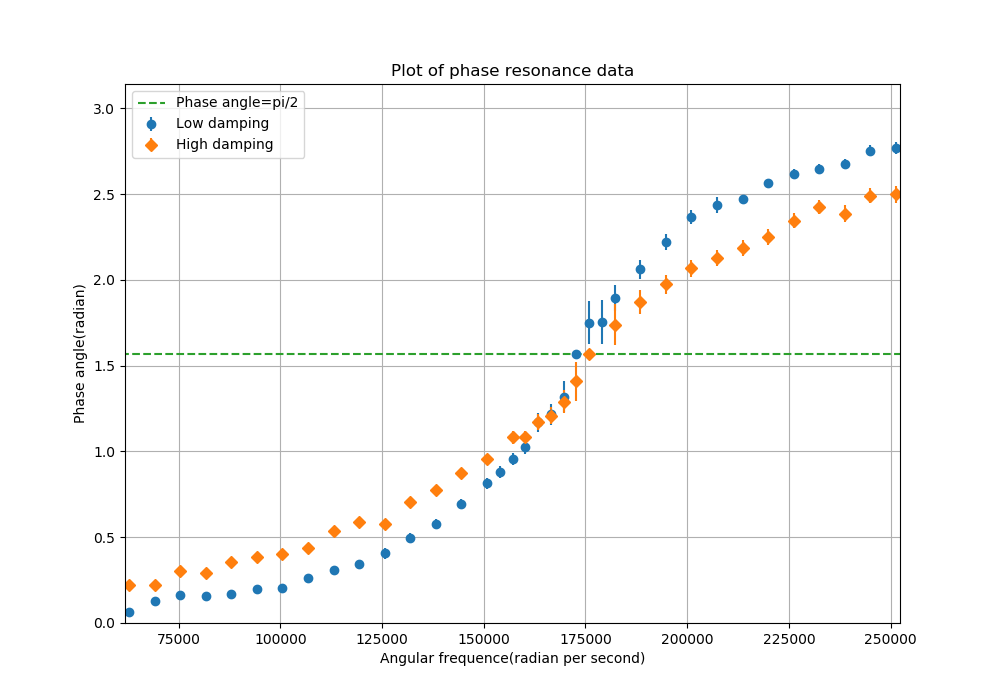
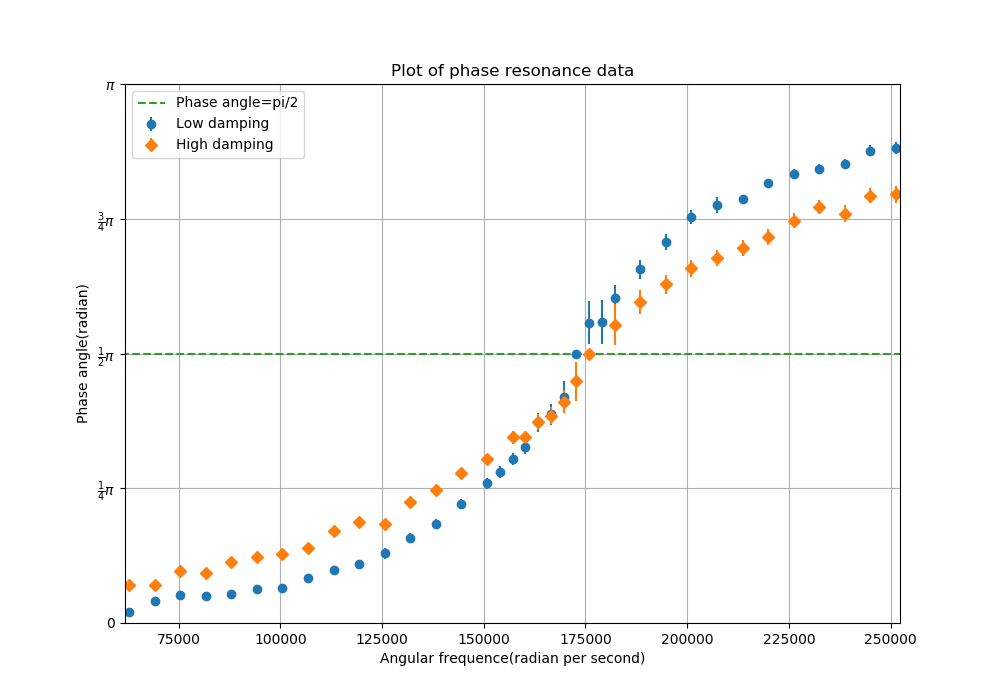
Display y axis in fraction of pi
Use plt.yticks to modify the display of y axis in fraction of pi. Update description in the end of README.

diff --git a/plot.py b/plot.py
@@ -48,10 +48,10 @@ delta_phase_1 = delta_y1y0_1/np.sqrt(1-(y1_1/y0_1)**2)
 #Reset counters
 x=0
 y=0
-for x in range(0,36):
+for x in range(0,len(freq)):       # Run through all frequencies
     if freq[x] >= 28e3*2*np.pi:
         phase[x]=np.pi-phase[x]
-for y in range(0,34):
+for y in range(0,len(freq_1)):
     if freq_1[y] >= 28e3*2*np.pi:
         phase_1[y]=np.pi-phase_1[y]
 
@@ -62,7 +62,7 @@ for y in range(0,34):
 
 ##### Amplitude graph #####
 #Decide size of the output plot
-plt.figure(1,figsize=(10,9))
+plot0=plt.figure(1,figsize=(10,9))
 plt.errorbar(freq,volt,yerr=delta_volt,fmt='o',label="Low damping")         # Plot with errorbar
 plt.errorbar(freq_1,volt_1,yerr=delta_volt_1,fmt='D',label="High damping")
 #Graph configuration
@@ -78,16 +78,19 @@ plt.grid()
 plt.savefig("E7_amplitude")
 
 ##### Phase angle graph #####
-plt.figure(2,figsize=(10,7))     # Generate another canvas
+plot1=plt.figure(2,figsize=(10,7))     # Generate another canvas
 plt.errorbar(freq,phase,yerr=delta_phase,fmt='o',label="Low damping")       # Plot with errorbar
 plt.errorbar(freq_1,phase_1,yerr=delta_phase_1,fmt='D',label="High damping")
 plt.plot((50000,280000),(np.pi/2,np.pi/2),'--',label="Phase angle=pi/2")    # A reference line at the phase angle where should have resonance
+#Graph modification
 plt.title("Plot of phase resonance data")
 plt.xlabel("Angular frequence(radian per second)")
 plt.ylabel("Phase angle(radian)")
 plt.legend(loc="best")
 plt.ylim(0,np.pi)
 plt.xlim(np.min(freq)-1000,np.max(freq)+1000)
+#A better display of y axis in pi fractions.
+plt.yticks(np.arange(0,np.pi+0.1,step=0.25*np.pi), ('0',r'$\frac{1}{4} \pi$',r'$\frac{1}{2} \pi$',r'$\frac{3}{4} \pi$',r'$\pi$'))
 plt.grid()
 #plt.show()
 plt.savefig("E7_phase")

diff --git a/README.md b/README.md
@@ -34,3 +34,14 @@ freq, volt, delta_volt, y0, y1, delta_y = np.loadtxt("low_damp.csv",delimiter=",
 freq_1, volt_1, delta_volt_1, y0_1, y1_1 = np.loadtxt("high_damp.csv",delimiter=",",unpack=True)
 ```
 
+## Tricks in coding
+
+### Better way to display axis
+
+In the plot of phase angle, it is more convenient to display y-axis in unit of pi. On line 93, I used plt.yticks to modify the display of axis.
+
+```python
+plt.yticks(np.arange(0,np.pi+0.1,step=0.25*np.pi), ('0',r'$\frac{1}{4} \pi$',r'$\frac{1}{2} \pi$',r'$\frac{3}{4} \pi$',r'$\pi$'))
+```
+
+It will devide pi into 4 ticks with step 0.25*pi, and display them on the axis. Text type of display is used to render `\pi` in Tex (matplotlib supports inline math with `r''` in text contents). 
